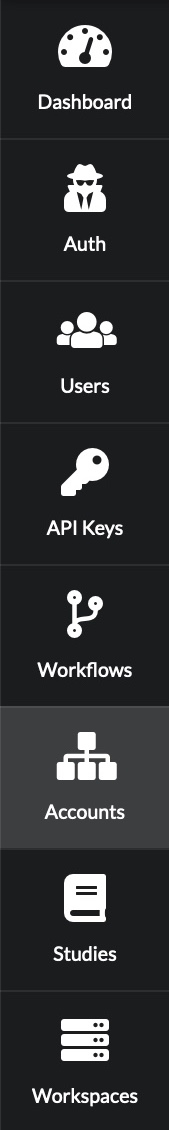
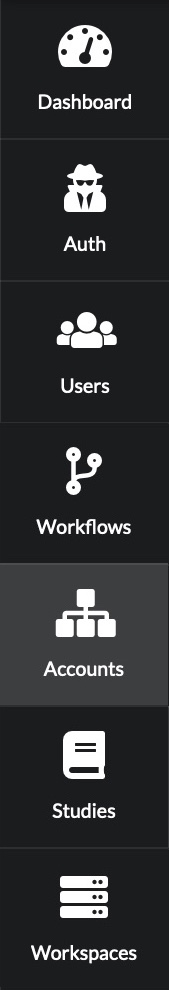
feat: removed API Keys from markdown files/documentation

Changed region(s): [[0.0, 0.0, 1.0, 0.8485], [0.1775, 0.8788, 0.7988, 1.0]]

diff --git a/docs/sidebars.js b/docs/sidebars.js
@@ -104,7 +104,6 @@ module.exports = {
                     ],
                   },
                 ],
-                "API Keys": ["user_guide/sidebar/admin/api_keys/introduction"],
                 Workflows: ["user_guide/sidebar/admin/workflows/introduction"],
                 Studies: [
                   "user_guide/sidebar/common/studies/introduction",

diff --git a/docs/docs/user_guide/introduction.md b/docs/docs/user_guide/introduction.md
@@ -34,10 +34,6 @@ providers.
 
 Create and manage local and federated users and roles.
 
-<b>API Keys</b>
-
-Create and revoke API keys
-
 <b>Workflows</b>
 
 Monitor and see the history of operations initiated by the
